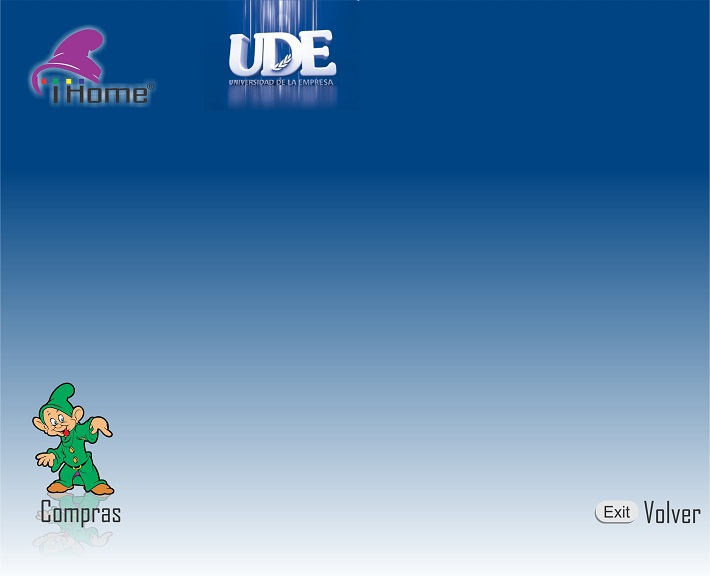
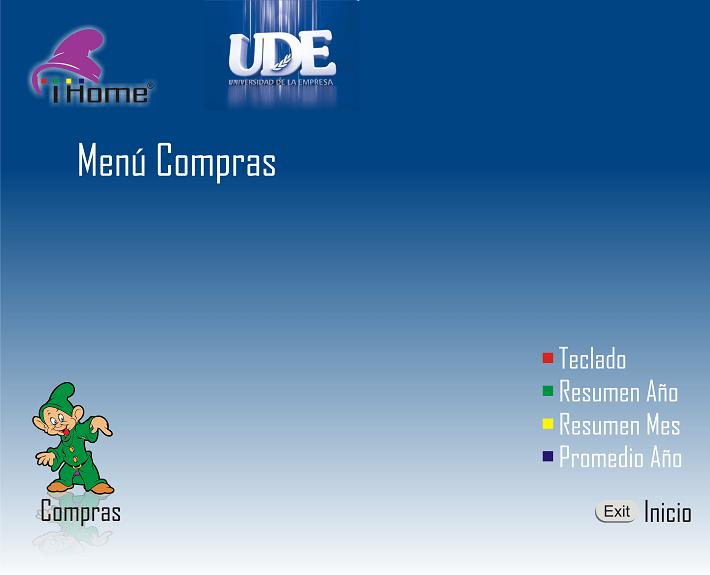
Menu Ayuda-Info

diff --git a/src/mainXlet/MainXlet.java b/src/mainXlet/MainXlet.java
@@ -73,6 +73,7 @@ public class MainXlet extends HComponent implements Xlet, Runnable, KeyListener 
 		
 	/**Main Image */
 	private Image mainImage;
+	private static boolean flagImageMain = false;
 	
 	private static boolean mainPage;
 	
@@ -114,6 +115,8 @@ public class MainXlet extends HComponent implements Xlet, Runnable, KeyListener 
         // the time it takes to load.  if this is being loaded from a DSM-CC   
         // carousel, it should definitely be loaded after startXlet() is called.   
         mainPage = true;
+        this.setBounds(0, 0, 800, 600);
+		this.addKeyListener(this);
         loadForegroundBitmap(); 
        
       
@@ -226,6 +229,7 @@ public class MainXlet extends HComponent implements Xlet, Runnable, KeyListener 
    
         // The bitmap image is shown in the graphics plane.   
         displayForegroundBitmap();   
+        
     }   
    
    
@@ -279,16 +283,7 @@ public class MainXlet extends HComponent implements Xlet, Runnable, KeyListener 
     }   
    
 
-    /**  
-     * This method loads the bitmap that we will display in the component.  
-     * The image can be loaded from a local filesystem or from a DSM-CC  
-     * object carousel using the same code, with only the latency being  
-     * different.  
-     *  
-     * This is fairly standard Java image loading, and so we won't  
-     * examine this as closely as the rest of the example.  A good Java  
-     * book will tell you everything you need to know about this topic.  
-     */   
+    
     public void loadForegroundBitmap() {   
         // Create a MediaTracker to tell us when the image has loaded   
         
@@ -296,11 +291,14 @@ public class MainXlet extends HComponent implements Xlet, Runnable, KeyListener 
         // Then load the image   
             	
     	image= Toolkit.getDefaultToolkit().getImage("bg22.png"); 
-    	mainImage = Toolkit.getDefaultToolkit().getImage("inicio.jpg");
+    	if (flagImageMain){
+    		mainImage = Toolkit.getDefaultToolkit().getImage("inicio.jpg");
+    		tracker.addImage(mainImage, 0);
+    	}
    
         // add the image to the MediaTracker...   
         tracker.addImage(image, 0);
-        tracker.addImage(mainImage, 1);
+        
         try{   
             tracker.waitForAll();   
         }   
@@ -386,9 +384,14 @@ public class MainXlet extends HComponent implements Xlet, Runnable, KeyListener 
             // Draw the image from the buffer   
         
         if(mainPage==true){
-            //graphics.drawImage(mainImage, 0, 0, null); 
-        }   
-        	
+            graphics.drawImage(mainImage, 0, 0, null); 
+        }
+    
+ ///
+        
+    
+		
+        ////
         
         graphics.drawImage(image, 404, 7, null);      
         
@@ -442,10 +445,12 @@ public class MainXlet extends HComponent implements Xlet, Runnable, KeyListener 
 
 		case 403: {
 			System.out.println("rojo ...");
-	        contRed.requestFocus();
+			setFlagImageMain(false);
+			this.repaint();
+			contRed.requestFocus();
 	        contRed.agenda.setVisible(true);
 	        contRed.agenda.requestFocus();
-			break;
+	        break;
 		}
 		case 404: { 
 			// Clase gastos
@@ -475,7 +480,13 @@ public class MainXlet extends HComponent implements Xlet, Runnable, KeyListener 
 	}   
    
    
-    public void keyTyped(KeyEvent key)   
+    private void setFlagImageMain(boolean b) {
+		// TODO Auto-generated method stub
+		
+	}
+
+
+	public void keyTyped(KeyEvent key)   
     {   
         // Ignored   
     }   
@@ -500,5 +511,11 @@ public class MainXlet extends HComponent implements Xlet, Runnable, KeyListener 
 //		myHSound.play();
 //
 //	}   
-   
+    public boolean isFlagImageMain() {
+		return flagImageMain;
+	}
+
+	public void setFlagImageBlue(boolean flag) {
+		flagImageMain = flag;
+	}
 } 

diff --git a/src/mainXlet/ContenedorAzul.java b/src/mainXlet/ContenedorAzul.java
@@ -31,13 +31,32 @@ public class ContenedorAzul extends HContainer implements KeyListener {
 	public void keyPressed(KeyEvent tecla) {
 
 		switch (tecla.getKeyCode()) {
+		case 403:
+			System.out.println("Rojo");
+			setFlagImageBlue1(true);
+			MediaTracker tracker3 = new MediaTracker(this);
+			// Then load the image
+			fondoAplic = Toolkit.getDefaultToolkit().getImage("AyudaRojo.jpg");
 
+			// add the image to the MediaTracker...
+			tracker3.addImage(fondoAplic, 0);
+
+			// ...and wait for it to finish loading
+			try {
+				tracker3.waitForAll();
+			} catch (InterruptedException e) {
+				// Ignore the exception, since there's not a lot we can do.
+				fondoAplic = null;
+
+			}
+			this.repaint();
+			break;
 		case 404:
 			System.out.println("verde");
 			setFlagImageBlue1(true);
 			MediaTracker tracker = new MediaTracker(this);
 			// Then load the image
-			fondoAplic = Toolkit.getDefaultToolkit().getImage("fondoAbout2.jpg");
+			fondoAplic = Toolkit.getDefaultToolkit().getImage("AyudaVerde.jpg");
 
 			// add the image to the MediaTracker...
 			tracker.addImage(fondoAplic, 0);
@@ -45,6 +64,37 @@ public class ContenedorAzul extends HContainer implements KeyListener {
 			// ...and wait for it to finish loading
 			try {
 				tracker.waitForAll();
+			} catch (InterruptedException e) {
+				fondoAplic = null;
+			}
+			this.repaint();
+			break;
+		case 405:
+			System.out.println("verde");
+			setFlagImageBlue1(true);
+			MediaTracker tracker1 = new MediaTracker(this);
+			fondoAplic = Toolkit.getDefaultToolkit().getImage("AyudaAmarillo.jpg");
+			tracker1.addImage(fondoAplic, 0);
+			try {
+				tracker1.waitForAll();
+			} catch (InterruptedException e) {
+				fondoAplic = null;
+			}
+			this.repaint();
+			break;
+		case 406:
+			System.out.println("Azul");
+			setFlagImageBlue1(true);
+			MediaTracker tracker2 = new MediaTracker(this);
+			// Then load the image
+			fondoAplic = Toolkit.getDefaultToolkit().getImage("AyudaAzul.jpg");
+
+			// add the image to the MediaTracker...
+			tracker2.addImage(fondoAplic, 0);
+
+			// ...and wait for it to finish loading
+			try {
+				tracker2.waitForAll();
 			} catch (InterruptedException e) {
 				// Ignore the exception, since there's not a lot we can do.
 				fondoAplic = null;
